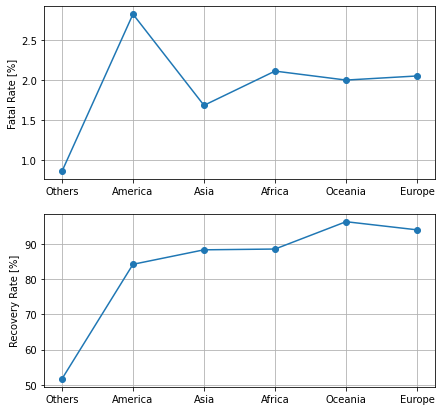
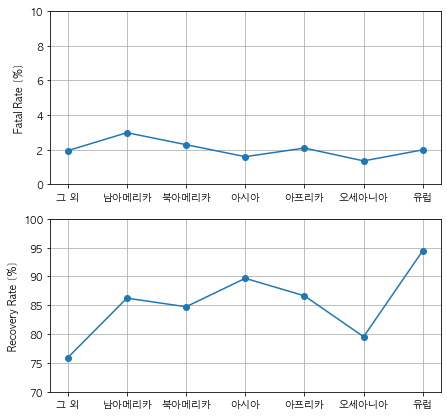
20210624_update
20210624_update

diff --git a/fatal-recovery-rate-by-continents/class13_0622_team_project.md b/fatal-recovery-rate-by-continents/class13_0622_team_project.md
@@ -1,4 +1,4 @@
-last update : 2021.06.23
+last update : 2021.06.24
 
 #### Team Project 01 by 김동화, 최민혁
 # 대륙별 코로나 사망률과 완치률
@@ -22,15 +22,17 @@ cf. 사망률 = 사망자수/확진자수, 완치률 = 완치자수/확진자수
 
 ## 결과
 
-result.png![result.png](attachment:result.png)
-
-## 해석 및 향후 개성 사항
-- 아프리카, 오세아니아, 유럽은 비슷한 수준의 사망률을 보인다.
-- 아메리카는 다른 대륙에 비해 높은 사망률을 보인다. 북아메리카의 미국과 캐나다의 사망률이 1.8과 1.9인 것에 비해서 다소 높은 수치가 나왔기 때문에 어떠한 이유에서 이러한 결과가 나왔는지 살펴볼 필요가 있다. 특정 국가의 사망률이 높은 건지, 골고루 높은 건지 등 분포를 알기 위해서 분산을 계산해보면 좋을 것 같다.
-- 그 외에 속한 나라들을 보면 속국이 많다. 소속국가인 프랑스보다 훨씬 더 낮은 완치률을 보이는 것을 알 수 있다. 완치률에 영향을 주는 여러 요인이 있겠지만 의료시설이 잘 되어있지 않다는 유추해볼 수 있다. 이들 국가에 대한 정보를 찾아보면 더 정확한 해석이 가능할 것 같다.
-- 사망률과 완치율의 음의 상관계수를 계산해보면 좋을 것 같다. 시각화 결과를 통해서는 사망률이 높을수록 완치율이 낮다는 것을 정확하게 확인하기는 어려웠다.
+result.png![result.png](./result.png)
 
 
+
+
+## 해석 및 향후 개선 사항
+- 치명률에 비해 완치율의 분산이 크기 때문에 대륙에 따라서 완치율이 달라질 수 있다고 말할 수 있다.  
+- 치명률과 완치율의 양상이 비슷하지 하지 않은 것으로 보았을 때 대륙별로 백신 보급, 의료환경 등 인위적이고 대륙마다 독립적인 요소들에 영향을 받았을 것으로 예상해볼 수 있다.  
+- 전세계 백신 보급 현황 [링크](https://www.bbc.com/korean/features-56066227) 을 보았을 때 유럽 국가와 북아메리카의 보급률이 다른 국가에 비해 높은 것으로 확인되었다. 그럼에도 불구하고 완치율에 차이가 나는 것은 유럽에 비해 북아메리카의 의료 시설에 대한 접근성 등과 같은 대륙적 요소들의 영향을 끼쳤다고 생각해볼 수 있다.  
+- 의료 후진국을 많이 포함하고 있는 아프리카 대륙의 치명률이 높을 것으로 예상하였지만, 다른 대륙들과 비슷한 수준의 치명률과 완치률을 가진 것으로 보아 인간의 면역체계와 백신 보급 등과 같은 국제적인 협조가 잘 작동하고 있다고 생각할 수 있다.   
+- 사망률과 완치율은 서로 음의 상관관계를 가질 것으로 예상하였지만 분석해본 결과 그렇지는 않았다.  
 
 ### 1. 국가별 코로나 사망률, 완치율 
 임동조 강사님 unit08_corona_01_today 파일 참고
@@ -938,9 +940,9 @@ dict_dat
 
 
 
-### 2. 국가와 대륙 (by 최민혁)
-
-*국가와 대륙 데이터를 f_name2로 저장하기*
+### 2. 국가와 대륙
+`BeautifulSoup`을 이용하여 위키백과의 대륙별 국가 목록을 수집하였습니다. 모든 국가의 목록을 가져와 그 국가가 속한 대륙을 수작업으로 추가하였습니다.
+- 파일명 : *wiki.csv* (`f_name2` 객체에 저장)
 
 
 ```python
@@ -952,15 +954,9 @@ soup = BeautifulSoup(page, 'html.parser')
 
 ```python
 name=soup.select('div.mw-parser-output>ul>li>a')
-# len(name)
-
+name_list = []
 for one in name:
-    print(one.text)
-```
-
-
-```python
-f_name2 = "wiki.csv"
+    name_list.append(one.text)
 ```
 
 ###  3. 국가별 사망률, 완치률, 대륙 정보를 DataFrame으로 묶기
@@ -1489,7 +1485,7 @@ data1.to_csv(f_name3, index=False)
 
 
 ```python
-# f_name3 = "corona_total.csv"
+f_name3 = "corona_total.csv"
 data_all = pd.read_csv(f_name3)
 data_all
 ```
@@ -1736,40 +1732,198 @@ grp_mean
 
 
 ### 5. 시각화
+#### 1) matplotlib 한글 패치
 
 
 ```python
-x = ["Others","America","Asia","Africa","Oceania","Europe"]
-y1 = [0.860000, 2.823077, 1.684444,2.112121,2.000000,2.051282]
-y2 = [51.640000, 84.272000, 88.395556, 88.615152, 96.400000, 94.081081]
+from matplotlib import font_manager, rc
+import platform
+```
+
+
+```python
+path = "C:/Windows/Fonts/malgun.ttf" 
+if platform.system() == "Windows":
+    font_name = font_manager.FontProperties(fname=path).get_name()
+    rc('font', family=font_name) 
+elif platform.system()=="Darwin":
+    rc('font', family='AppleGothic') 
+else:
+    print("Unknown System") 
+    matplotlib.rcParams['axes.unicode_minus'] = False
+```
+
+#### 2) 대륙별 치명률과 완치률 plot
+
+
+```python
+x = grp_mean.index
+y1 = grp_mean["치명(%)"]
+y2 = grp_mean["완치(%)"]
 ```
 
 
 ```python
 fig = plt.figure(figsize=(7,7))
+
 ax1 = fig.add_subplot(211)
 ax1.plot(x,y1, 'o-')
 ax1.set_ylabel("Fatal Rate [%]")
 ax1.grid()
+ax1.set_ylim(0,10)
+
 ax2 = fig.add_subplot(212)
 ax2.plot(x,y2, 'o-')
 ax2.set_ylabel("Recovery Rate [%]")
 ax2.grid()
+ax2.set_ylim(70, 100)
 ```
+
+
+
+
+    (70.0, 100.0)
+
+
+
+
+    
+![png](output_43_1.png)
+    
+
+
+#### 3)  상관관계
+- 예상 : 완치률이 높을수록 사망률은 낮게 나오지 않을까하여 음의 상관관계를 예상
+- 결과 : 치명률과 완치율은 음의 상관관계를 가지지는 않는다.
+
+
+```python
+grp_mean.corr()
+```
+
+
+
+
+<div>
+<style scoped>
+    .dataframe tbody tr th:only-of-type {
+        vertical-align: middle;
+    }
+
+    .dataframe tbody tr th {
+        vertical-align: top;
+    }
+
+    .dataframe thead th {
+        text-align: right;
+    }
+</style>
+<table border="1" class="dataframe">
+  <thead>
+    <tr style="text-align: right;">
+      <th></th>
+      <th>치명(%)</th>
+      <th>완치(%)</th>
+    </tr>
+  </thead>
+  <tbody>
+    <tr>
+      <th>치명(%)</th>
+      <td>1.000000</td>
+      <td>0.170052</td>
+    </tr>
+    <tr>
+      <th>완치(%)</th>
+      <td>0.170052</td>
+      <td>1.000000</td>
+    </tr>
+  </tbody>
+</table>
+</div>
+
+
+
+#### 4) 통계치
+- 시각화 결과를 통해서 완치율의 분포가 치명률보다 더 고르게 나타나는 것을 확인할 수 있었다. 데이터의 통계치를 확인해본 결과 완치율의 분산이 치명률보다 약 11배 정도 높았다. 따라서 대륙에 따라서 완치율이 달라질 수 있다고 이야기할 수 있겠다.
+
+
+```python
+grp_mean.describe()
+```
+
+
+
+
+<div>
+<style scoped>
+    .dataframe tbody tr th:only-of-type {
+        vertical-align: middle;
+    }
+
+    .dataframe tbody tr th {
+        vertical-align: top;
+    }
+
+    .dataframe thead th {
+        text-align: right;
+    }
+</style>
+<table border="1" class="dataframe">
+  <thead>
+    <tr style="text-align: right;">
+      <th></th>
+      <th>치명(%)</th>
+      <th>완치(%)</th>
+    </tr>
+  </thead>
+  <tbody>
+    <tr>
+      <th>count</th>
+      <td>7.000000</td>
+      <td>7.000000</td>
+    </tr>
+    <tr>
+      <th>mean</th>
+      <td>2.033471</td>
+      <td>85.323831</td>
+    </tr>
+    <tr>
+      <th>std</th>
+      <td>0.522073</td>
+      <td>6.161759</td>
+    </tr>
+    <tr>
+      <th>min</th>
+      <td>1.350000</td>
+      <td>75.908333</td>
+    </tr>
+    <tr>
+      <th>25%</th>
+      <td>1.767772</td>
+      <td>82.150000</td>
+    </tr>
+    <tr>
+      <th>50%</th>
+      <td>1.988372</td>
+      <td>86.242857</td>
+    </tr>
+    <tr>
+      <th>75%</th>
+      <td>2.190189</td>
+      <td>88.166348</td>
+    </tr>
+    <tr>
+      <th>max</th>
+      <td>2.980000</td>
+      <td>94.482927</td>
+    </tr>
+  </tbody>
+</table>
+</div>
 
 
 
 
 ```python
-import pandas as pd
-y = {"Fatal Rate":y1, "Recovery Rate":y2}
-y = pd.DataFrame(y)
-y
+
 ```
-
-
-```python
-y.corr() 
-```
-
-음의 상관관계가 나오긴 하나?
